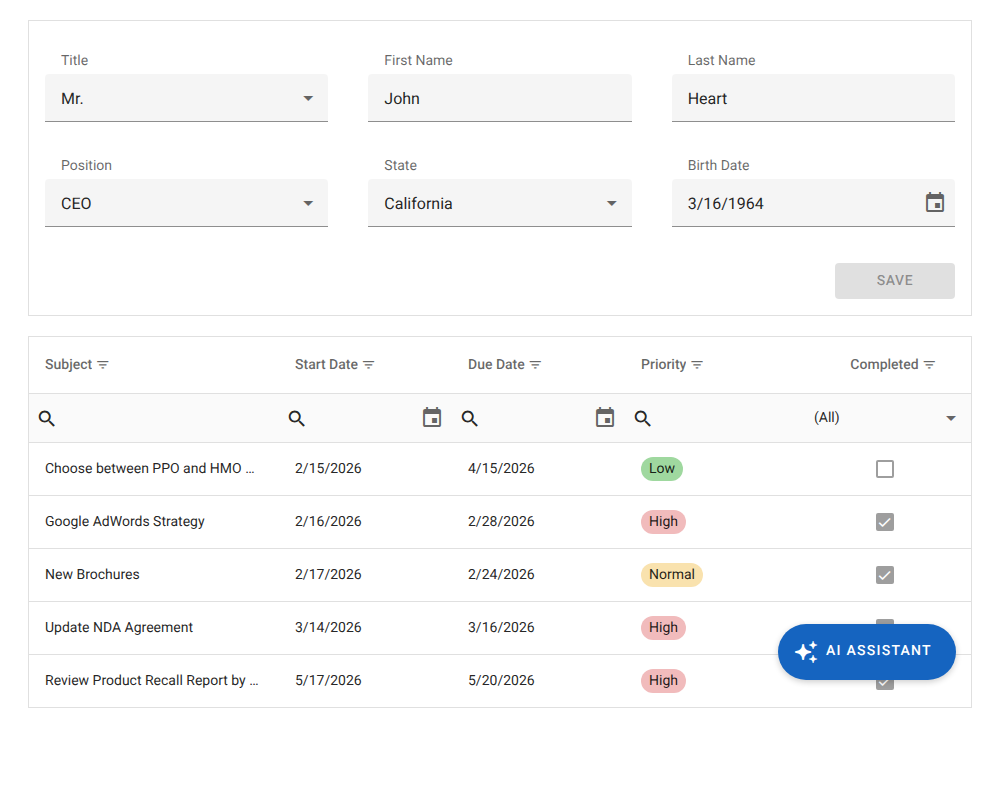
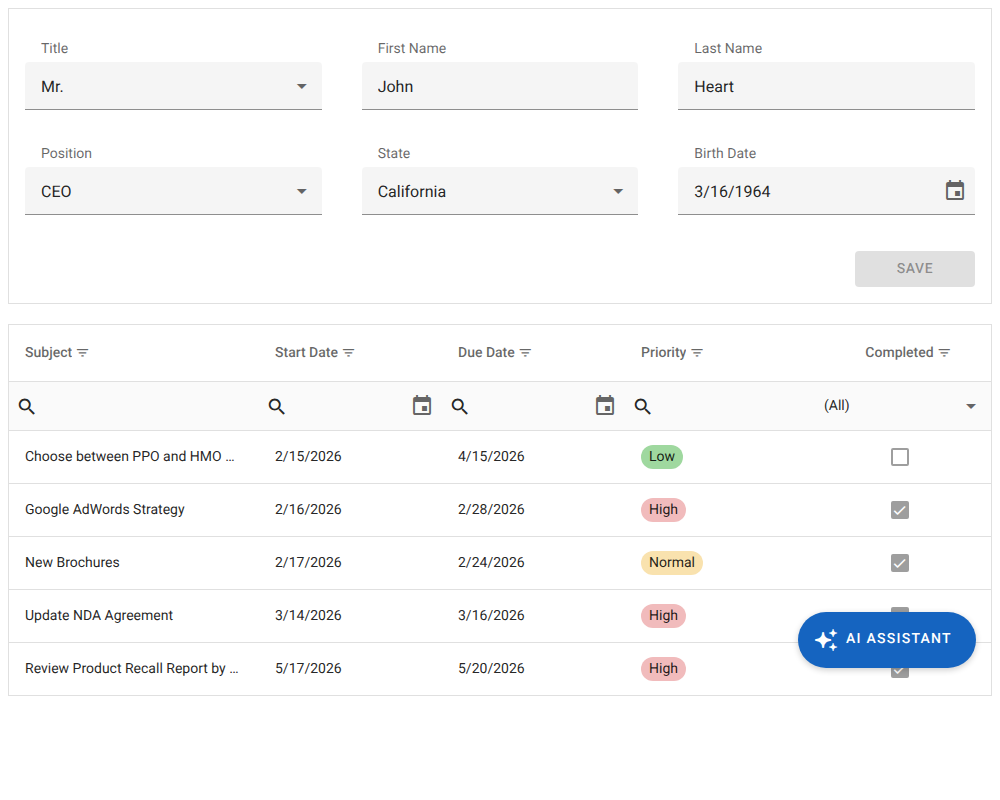
Fix: Remove fixed height of a demo container (#35750)

diff --git a/apps/demos/Demos/Chat/PageLevelAIAssistant/React/styles.css b/apps/demos/Demos/Chat/PageLevelAIAssistant/React/styles.css
@@ -34,11 +34,6 @@
   background-color: var(--dx-component-color-bg);
 }
 
-.demo-container {
-  margin: 20px;
-  height: 556px;
-}
-
 .ai-chat-empty-message {
   font-size: 18px;
   font-weight: 400;

diff --git a/apps/demos/Demos/Chat/PageLevelAIAssistant/ReactJs/styles.css b/apps/demos/Demos/Chat/PageLevelAIAssistant/ReactJs/styles.css
@@ -34,11 +34,6 @@
   background-color: var(--dx-component-color-bg);
 }
 
-.demo-container {
-  margin: 20px;
-  height: 556px;
-}
-
 .ai-chat-empty-message {
   font-size: 18px;
   font-weight: 400;

diff --git a/apps/demos/Demos/Chat/PageLevelAIAssistant/jQuery/styles.css b/apps/demos/Demos/Chat/PageLevelAIAssistant/jQuery/styles.css
@@ -34,11 +34,6 @@
   background-color: var(--dx-component-color-bg);
 }
 
-.demo-container {
-  margin: 20px;
-  height: 556px;
-}
-
 .ai-chat-empty-message {
   font-size: 18px;
   font-weight: 400;

diff --git a/apps/demos/Demos/Chat/PageLevelAIAssistant/Vue/App.vue b/apps/demos/Demos/Chat/PageLevelAIAssistant/Vue/App.vue
@@ -63,10 +63,3 @@ async function onMessageSubmitted(message: DxChatTypes.TextMessage): Promise<voi
   }
 }
 </script>
-
-<style>
-.demo-container {
-  margin: 20px;
-  height: 556px;
-}
-</style>
